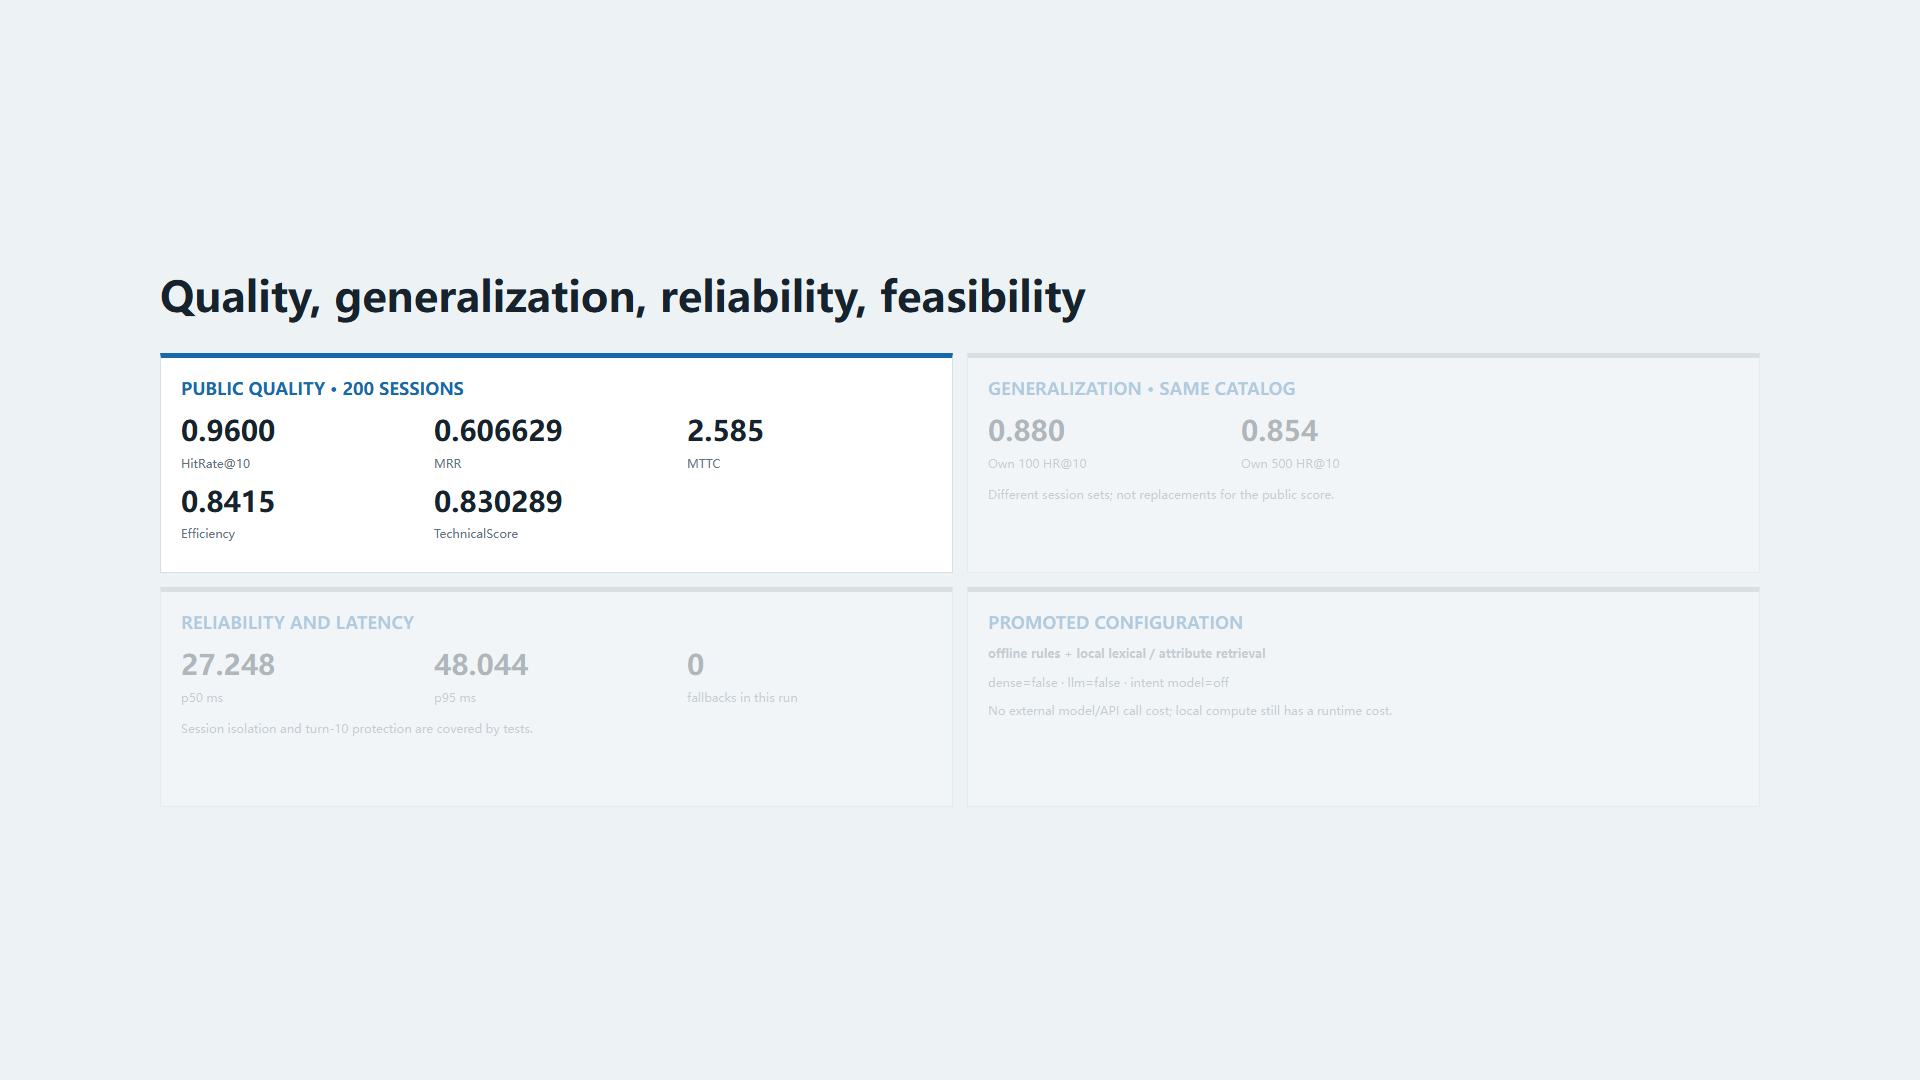
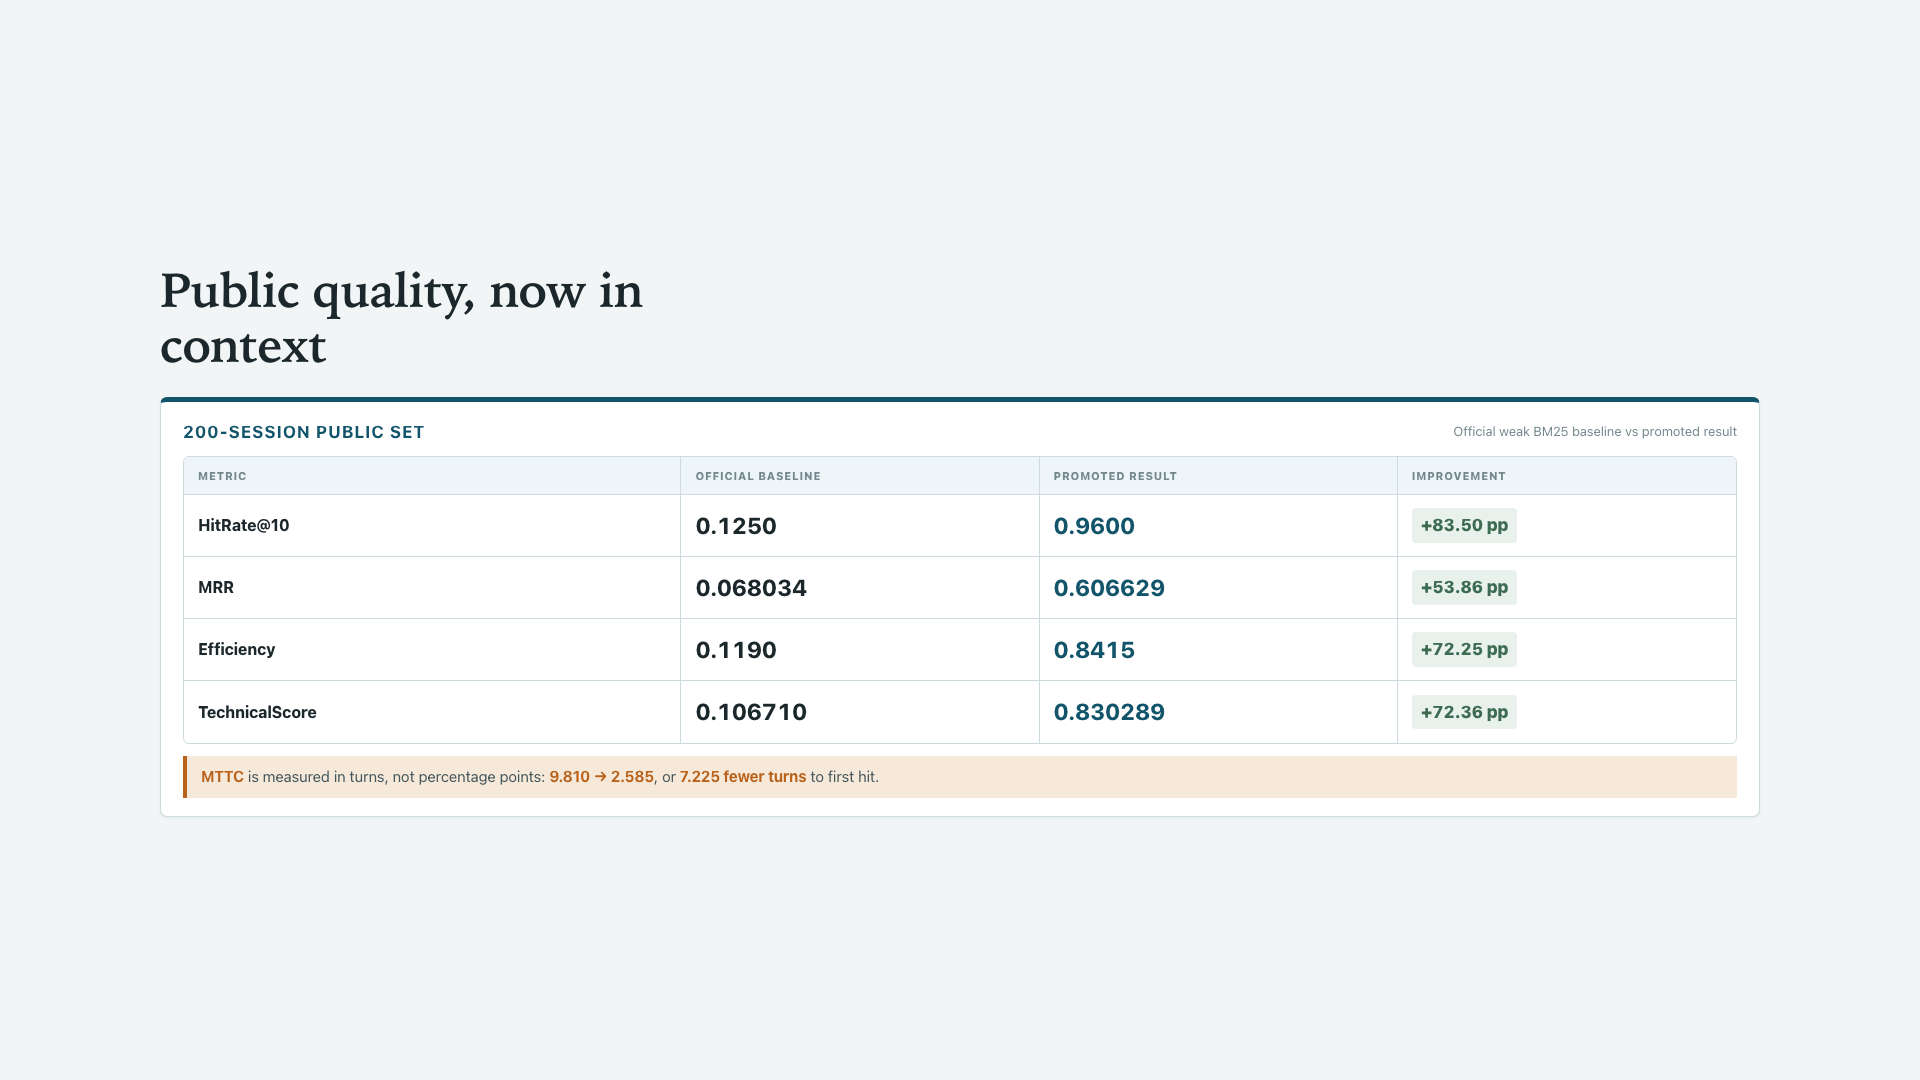
在demo中更新基于baseline的提升百分比

Changed region(s): [[0.0625, 0.2444, 0.9062, 0.7639], [0.2188, 0.6111, 0.2812, 0.6417], [0.75, 0.5806, 0.7812, 0.6111]]

diff --git a/video/index.html b/video/index.html
@@ -13,6 +13,8 @@
     .mech-grid{display:grid;grid-template-columns:repeat(3,1fr);gap:16px}.mech-card{background:var(--paper);border:1px solid var(--line);border-radius:8px;padding:20px 22px;position:relative;box-shadow:0 1px 3px rgba(19,38,49,.06)}.mech-card b{position:absolute;top:-12px;left:18px;width:26px;height:26px;border-radius:50%;background:var(--blue);color:#fff;font-size:14px;display:grid;place-items:center}.mech-card strong{display:block;font-size:21px;margin:6px 0 8px}.mech-card span{font-size:17px;color:#4a5f6d}
     .coverage-bar{display:flex;height:56px;border-radius:8px;overflow:hidden;margin-bottom:18px}.coverage-bar .seg{display:grid;place-items:center;color:#fff;font-size:18px;font-weight:650}.coverage-bar .seg.base{background:var(--blue);flex:80}.coverage-bar .seg.hard{background:var(--orange);flex:20}.coverage p{margin:0;font-size:28px;line-height:1.48;color:#3d352c;max-width:26ch;font-family:"Iowan Old Style","Palatino Linotype",Palatino,Georgia,serif}
     .value-note{color:var(--green);font-weight:650}
+    .baseline-panel{background:#fff;border:1px solid var(--line);border-top:5px solid var(--blue);border-radius:7px;padding:18px 22px;box-shadow:0 1px 3px rgba(19,38,49,.06)}.baseline-source{display:flex;align-items:center;justify-content:space-between;gap:20px;margin-bottom:12px}.baseline-source strong{font-size:17px;color:var(--blue);text-transform:uppercase;letter-spacing:.07em}.baseline-source span{font-size:13px;color:var(--muted)}.baseline-table{display:grid;grid-template-columns:1.25fr .9fr .9fr .85fr;border:1px solid var(--line);border-radius:6px;overflow:hidden}.baseline-cell{min-height:62px;padding:10px 14px;border-right:1px solid var(--line);border-bottom:1px solid var(--line);display:flex;align-items:center}.baseline-cell:nth-child(4n){border-right:0}.baseline-cell:nth-last-child(-n+4){border-bottom:0}.baseline-cell.head{min-height:38px;background:var(--teal-050);font-size:11px;font-weight:800;text-transform:uppercase;letter-spacing:.07em;color:var(--muted)}.baseline-metric{font-size:16px;font-weight:750}.baseline-number{font-size:23px;font-weight:750;font-variant-numeric:tabular-nums}.baseline-number.current{color:var(--blue)}.baseline-delta{display:inline-block;padding:5px 9px;border-radius:4px;background:var(--green-bg);color:var(--green);font-size:17px;font-weight:850;font-variant-numeric:tabular-nums}.mttc-note{margin-top:12px;padding:10px 14px;border-left:4px solid var(--orange);background:var(--orange-bg);font-size:15px;color:var(--ink-2)}.mttc-note b{color:var(--orange)}
+    .focus-kpis{display:grid;gap:14px;margin-top:8px}.focus-kpis.two{grid-template-columns:repeat(2,1fr)}.focus-kpis.three{grid-template-columns:repeat(3,1fr)}.focus-kpi{min-height:150px;padding:20px 22px;border:1px solid var(--line);border-radius:6px;background:var(--teal-050);display:flex;flex-direction:column;justify-content:center}.focus-kpi.green{background:var(--green-bg)}.focus-kpi strong{font-size:44px;line-height:1.05;color:var(--blue);font-variant-numeric:tabular-nums;letter-spacing:-.025em}.focus-kpi.green strong{color:var(--green)}.focus-kpi b{margin-top:9px;font-size:16px;color:var(--ink)}.focus-kpi span{margin-top:3px;font-size:13px;color:var(--muted)}.focus-note{margin-top:14px;padding:11px 14px;border-left:4px solid var(--blue);background:var(--teal-050);font-size:15px;color:var(--ink-2)}.focus-note.green{border-left-color:var(--green);background:var(--green-bg)}.runtime-config{display:flex;align-items:center;justify-content:space-between;gap:12px;margin-top:12px;padding:10px 14px;border:1px solid var(--line);border-radius:5px;background:#fff;font-size:13px}.runtime-config b{color:var(--orange)}.runtime-config span{color:var(--muted)}
   </style>
 </head>
 <body>
@@ -153,7 +155,15 @@ function flow(frame){
 
 function staticEvidence(frame){
   const step=frame.step;
-  return `<section class="slide"><div class="capture-note">Evidence scopes remain separate</div><h2>Quality, generalization, reliability, feasibility</h2><div class="evidence-grid"><div class="metric-panel ${step===1?'on':''}"><h3>Public quality · 200 sessions</h3><div class="metrics"><div class="metric"><strong>0.9600</strong><span>HitRate@10</span></div><div class="metric"><strong>0.606629</strong><span>MRR</span></div><div class="metric"><strong>2.585</strong><span>MTTC</span></div><div class="metric"><strong>0.8415</strong><span>Efficiency</span></div><div class="metric"><strong>0.830289</strong><span>TechnicalScore</span></div></div></div><div class="metric-panel ${step===2?'on':''}"><h3>Generalization · same catalog</h3><div class="metrics"><div class="metric"><strong>0.880</strong><span>Own 100 HR@10</span></div><div class="metric"><strong>0.854</strong><span>Own 500 HR@10</span></div></div><p>Different session sets; not replacements for the public score.</p></div><div class="metric-panel green ${step===3?'on':''}"><h3>Reliability and latency</h3><div class="metrics"><div class="metric"><strong>27.248</strong><span>p50 ms</span></div><div class="metric"><strong>48.044</strong><span>p95 ms</span></div><div class="metric"><strong>0</strong><span>fallbacks in this run</span></div></div><p>Session isolation and turn-10 protection are covered by tests.</p></div><div class="metric-panel orange ${step===3?'on':''}"><h3>Promoted configuration</h3><p><b>offline rules + local lexical / attribute retrieval</b></p><p>dense=false · llm=false · intent model=off</p><p>No external model/API call cost; local compute still has a runtime cost.</p></div></div></section>`;
+  if(step===1){
+    const rows=[['HitRate@10','0.1250','0.9600','+83.50 pp'],['MRR','0.068034','0.606629','+53.86 pp'],['Efficiency','0.1190','0.8415','+72.25 pp'],['TechnicalScore','0.106710','0.830289','+72.36 pp']];
+    const cells=rows.map(row=>`<div class="baseline-cell baseline-metric">${row[0]}</div><div class="baseline-cell baseline-number">${row[1]}</div><div class="baseline-cell baseline-number current">${row[2]}</div><div class="baseline-cell"><span class="baseline-delta">${row[3]}</span></div>`).join('');
+    return `<section class="slide"><div class="capture-note">Official baseline · docs/baseline_results.json</div><h2>Public quality, now in context</h2><div class="baseline-panel"><div class="baseline-source"><strong>200-session public set</strong><span>Official weak BM25 baseline vs promoted result</span></div><div class="baseline-table"><div class="baseline-cell head">Metric</div><div class="baseline-cell head">Official baseline</div><div class="baseline-cell head">Promoted result</div><div class="baseline-cell head">Improvement</div>${cells}</div><div class="mttc-note"><b>MTTC</b> is measured in turns, not percentage points: <b>9.810 → 2.585</b>, or <b>7.225 fewer turns</b> to first hit.</div></div></section>`;
+  }
+  if(step===2){
+    return `<section class="slide"><div class="capture-note">Evidence scopes remain separate</div><h2>Generalization on the same catalog</h2><div class="baseline-panel"><div class="baseline-source"><strong>Independent session sets</strong><span>Transfer checks · separate from the public headline</span></div><div class="focus-kpis two"><div class="focus-kpi"><strong>0.880</strong><b>Own 100 · HitRate@10</b><span>100 self-built sessions</span></div><div class="focus-kpi"><strong>0.854</strong><b>Own 500 · HitRate@10</b><span>500 self-built sessions</span></div></div><div class="focus-note">Same read-only catalog, different session sets. These results test transfer; they do not replace the public score.</div></div></section>`;
+  }
+  return `<section class="slide"><div class="capture-note">Measured on the promoted public run</div><h2>Reliability, latency, and feasibility</h2><div class="baseline-panel"><div class="baseline-source"><strong>Reliability and latency</strong><span>Local deterministic execution</span></div><div class="focus-kpis three"><div class="focus-kpi green"><strong>27.248</strong><b>p50 latency</b><span>milliseconds</span></div><div class="focus-kpi green"><strong>48.044</strong><b>p95 latency</b><span>milliseconds</span></div><div class="focus-kpi green"><strong>0</strong><b>Fallbacks</b><span>in this public run</span></div></div><div class="focus-note green">Session isolation and turn-10 protection are covered by tests.</div><div class="runtime-config"><b>Promoted configuration</b><span>offline rules · local lexical / attribute retrieval · dense=false · llm=false · intent model=off</span></div></div></section>`;
 }
 
 function value(frame){

diff --git a/video/rebuild-all.js b/video/rebuild-all.js
@@ -140,6 +140,8 @@ const CSS = `
     .mech-grid{display:grid;grid-template-columns:repeat(3,1fr);gap:16px}.mech-card{background:var(--paper);border:1px solid var(--line);border-radius:8px;padding:20px 22px;position:relative;box-shadow:0 1px 3px rgba(19,38,49,.06)}.mech-card b{position:absolute;top:-12px;left:18px;width:26px;height:26px;border-radius:50%;background:var(--blue);color:#fff;font-size:14px;display:grid;place-items:center}.mech-card strong{display:block;font-size:21px;margin:6px 0 8px}.mech-card span{font-size:17px;color:#4a5f6d}
     .coverage-bar{display:flex;height:56px;border-radius:8px;overflow:hidden;margin-bottom:18px}.coverage-bar .seg{display:grid;place-items:center;color:#fff;font-size:18px;font-weight:650}.coverage-bar .seg.base{background:var(--blue);flex:80}.coverage-bar .seg.hard{background:var(--orange);flex:20}.coverage p{margin:0;font-size:23px;line-height:1.45;color:#385060}
     .value-note{color:var(--green);font-weight:650}
+    .baseline-panel{background:#fff;border:1px solid var(--line);border-top:5px solid var(--blue);border-radius:7px;padding:18px 22px;box-shadow:0 1px 3px rgba(19,38,49,.06)}.baseline-source{display:flex;align-items:center;justify-content:space-between;gap:20px;margin-bottom:12px}.baseline-source strong{font-size:17px;color:var(--blue);text-transform:uppercase;letter-spacing:.07em}.baseline-source span{font-size:13px;color:var(--muted)}.baseline-table{display:grid;grid-template-columns:1.25fr .9fr .9fr .85fr;border:1px solid var(--line);border-radius:6px;overflow:hidden}.baseline-cell{min-height:62px;padding:10px 14px;border-right:1px solid var(--line);border-bottom:1px solid var(--line);display:flex;align-items:center}.baseline-cell:nth-child(4n){border-right:0}.baseline-cell:nth-last-child(-n+4){border-bottom:0}.baseline-cell.head{min-height:38px;background:var(--teal-050);font-size:11px;font-weight:800;text-transform:uppercase;letter-spacing:.07em;color:var(--muted)}.baseline-metric{font-size:16px;font-weight:750}.baseline-number{font-size:23px;font-weight:750;font-variant-numeric:tabular-nums}.baseline-number.current{color:var(--blue)}.baseline-delta{display:inline-block;padding:5px 9px;border-radius:4px;background:var(--green-bg);color:var(--green);font-size:17px;font-weight:850;font-variant-numeric:tabular-nums}.mttc-note{margin-top:12px;padding:10px 14px;border-left:4px solid var(--orange);background:var(--orange-bg);font-size:15px;color:var(--ink-2)}.mttc-note b{color:var(--orange)}
+    .focus-kpis{display:grid;gap:14px;margin-top:8px}.focus-kpis.two{grid-template-columns:repeat(2,1fr)}.focus-kpis.three{grid-template-columns:repeat(3,1fr)}.focus-kpi{min-height:150px;padding:20px 22px;border:1px solid var(--line);border-radius:6px;background:var(--teal-050);display:flex;flex-direction:column;justify-content:center}.focus-kpi.green{background:var(--green-bg)}.focus-kpi strong{font-size:44px;line-height:1.05;color:var(--blue);font-variant-numeric:tabular-nums;letter-spacing:-.025em}.focus-kpi.green strong{color:var(--green)}.focus-kpi b{margin-top:9px;font-size:16px;color:var(--ink)}.focus-kpi span{margin-top:3px;font-size:13px;color:var(--muted)}.focus-note{margin-top:14px;padding:11px 14px;border-left:4px solid var(--blue);background:var(--teal-050);font-size:15px;color:var(--ink-2)}.focus-note.green{border-left-color:var(--green);background:var(--green-bg)}.runtime-config{display:flex;align-items:center;justify-content:space-between;gap:12px;margin-top:12px;padding:10px 14px;border:1px solid var(--line);border-radius:5px;background:#fff;font-size:13px}.runtime-config b{color:var(--orange)}.runtime-config span{color:var(--muted)}
 `;
 swap(/  <\/style>/, () => CSS + '  </style>');
 
